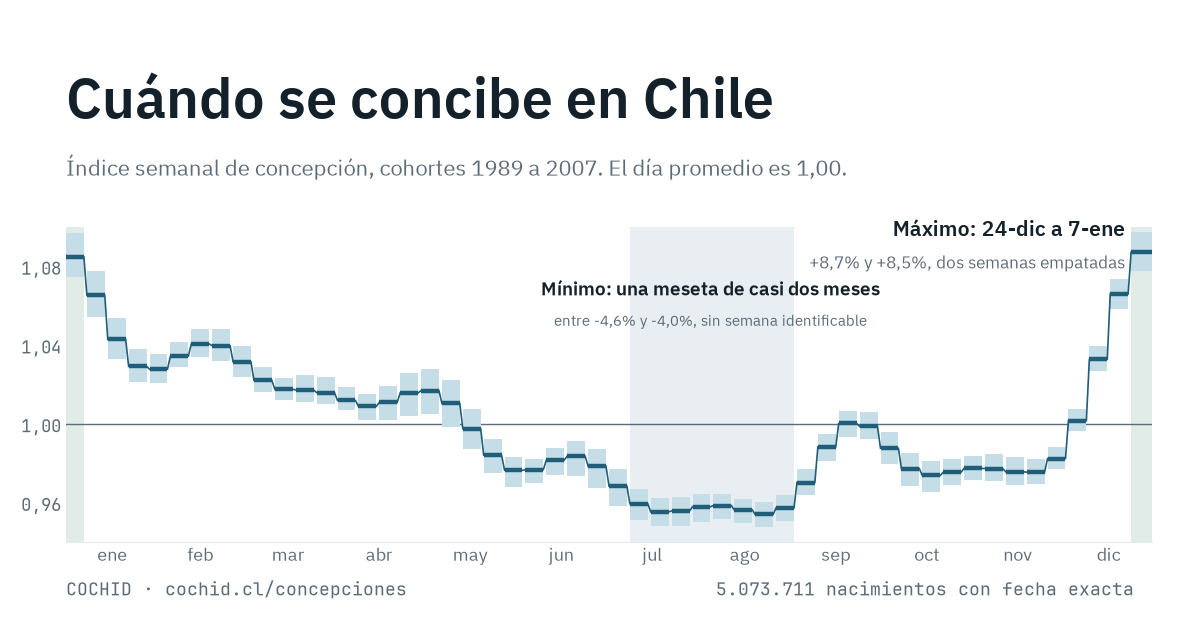
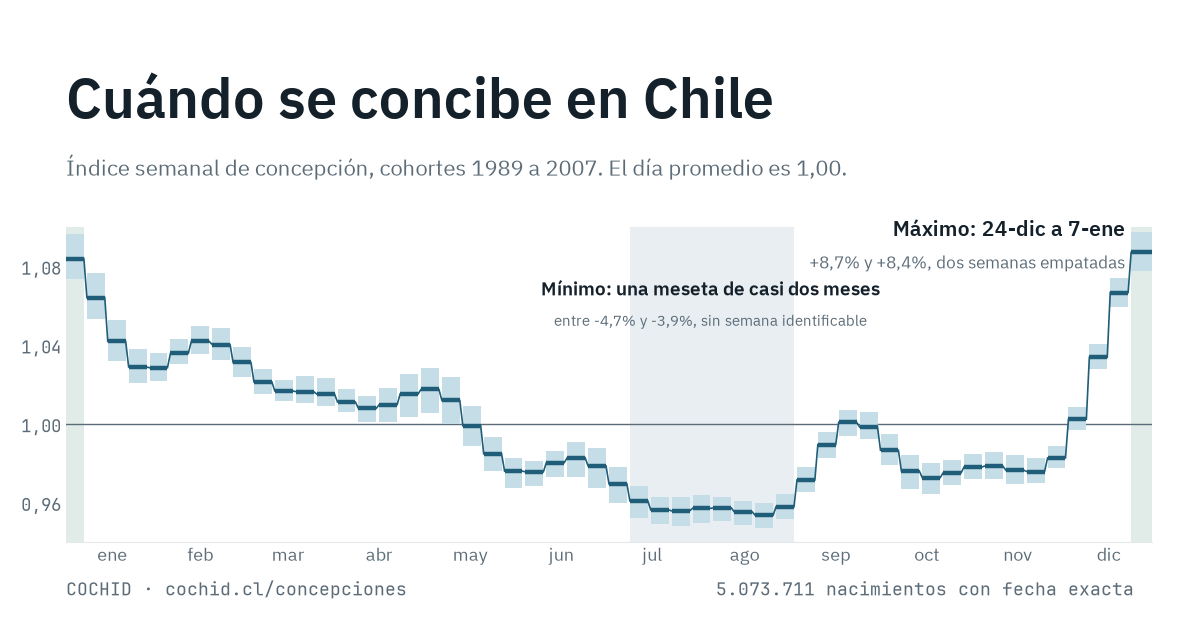
Regenera la tarjeta social con las cifras v3
social.png horneaba "+8,7% y +8,5%" y "entre -4,6% y -4,0%" en el propio
script, y el build no la toca. Pasan a "+8,7% y +8,4%" y "entre -4,7% y
-3,9%"; la curva se redibuja desde datos/semanal.json, que ya está en v3.

diff --git a/scripts/social-concepciones.py b/scripts/social-concepciones.py
@@ -92,11 +92,11 @@ def main():
 
     ax.annotate("Máximo: 24-dic a 7-ene", xy=(356, 1.093), ha="right", va="bottom",
                 fontfamily=SANS, fontsize=15, color=TINTA, fontweight="semibold")
-    ax.annotate("+8,7% y +8,5%, dos semanas empatadas", xy=(356, 1.077), ha="right", va="bottom",
+    ax.annotate("+8,7% y +8,4%, dos semanas empatadas", xy=(356, 1.077), ha="right", va="bottom",
                 fontfamily=SANS, fontsize=12, color=SUAVE)
     ax.annotate("Mínimo: una meseta de casi dos meses", xy=(217, 1.063), ha="center", va="bottom",
                 fontfamily=SANS, fontsize=14, color=TINTA, fontweight="semibold")
-    ax.annotate("entre -4,6% y -4,0%, sin semana identificable", xy=(217, 1.048), ha="center", va="bottom",
+    ax.annotate("entre -4,7% y -3,9%, sin semana identificable", xy=(217, 1.048), ha="center", va="bottom",
                 fontfamily=SANS, fontsize=11, color=SUAVE)
 
     fig.text(0.055, 0.885, "Cuándo se concibe en Chile", fontfamily=SANS, fontsize=40,
